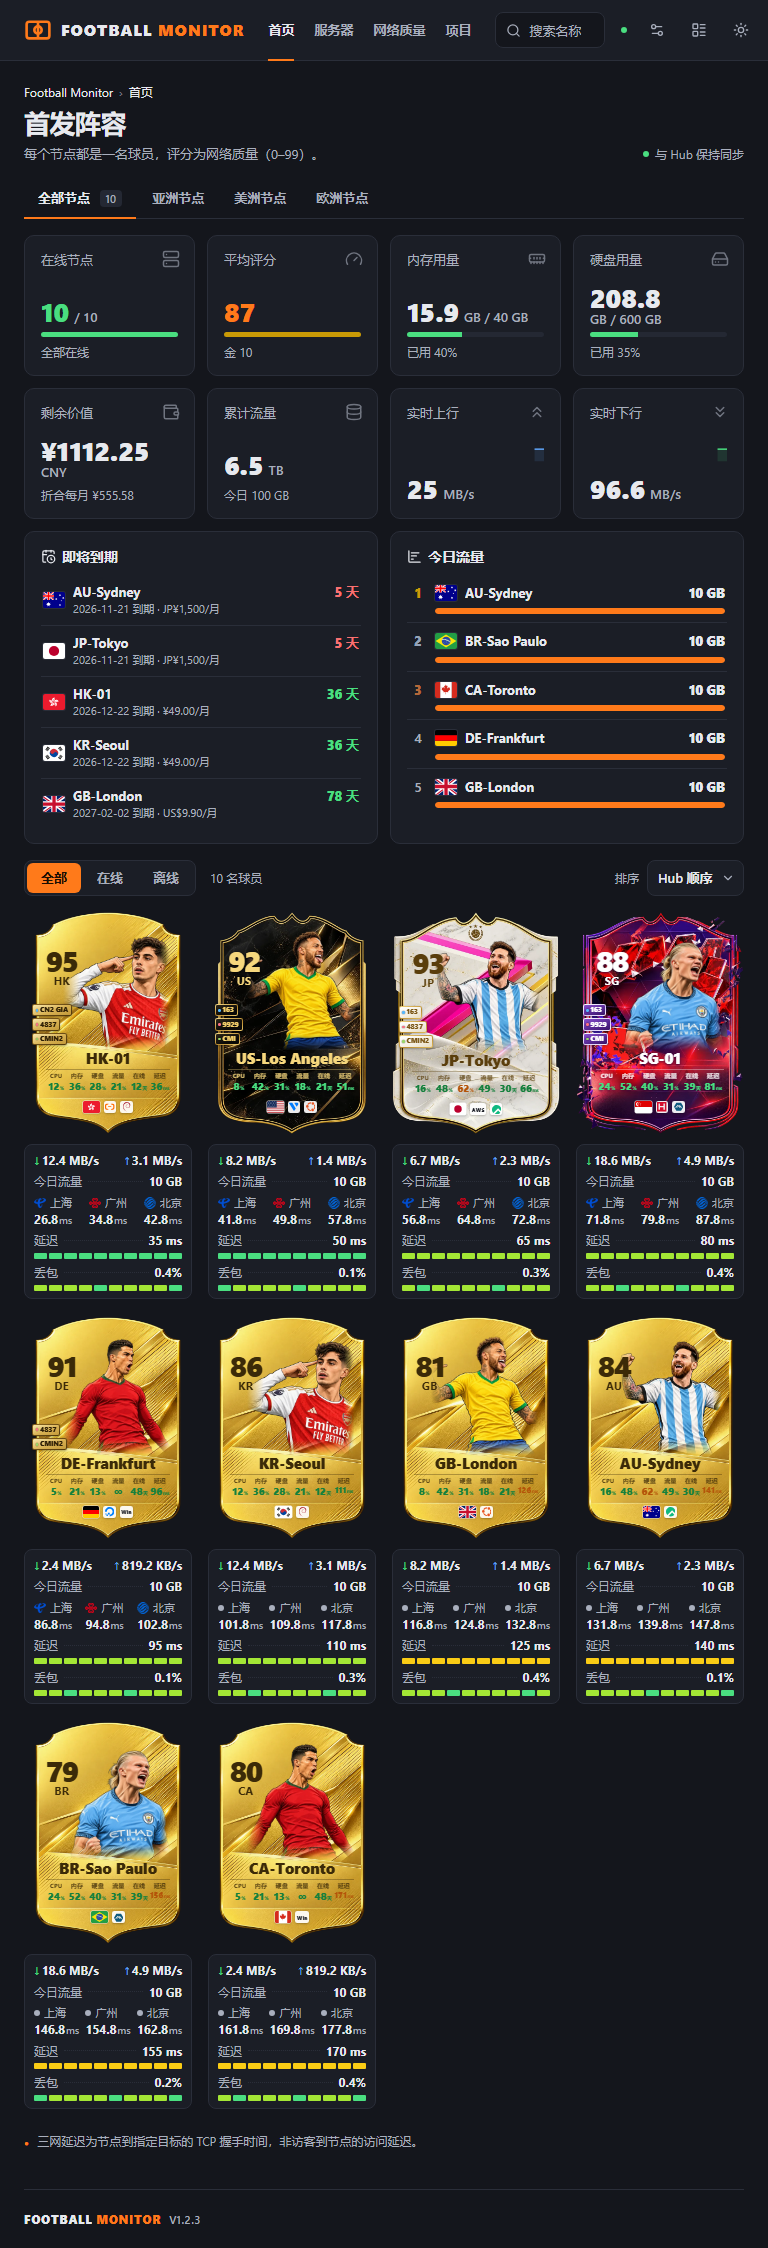
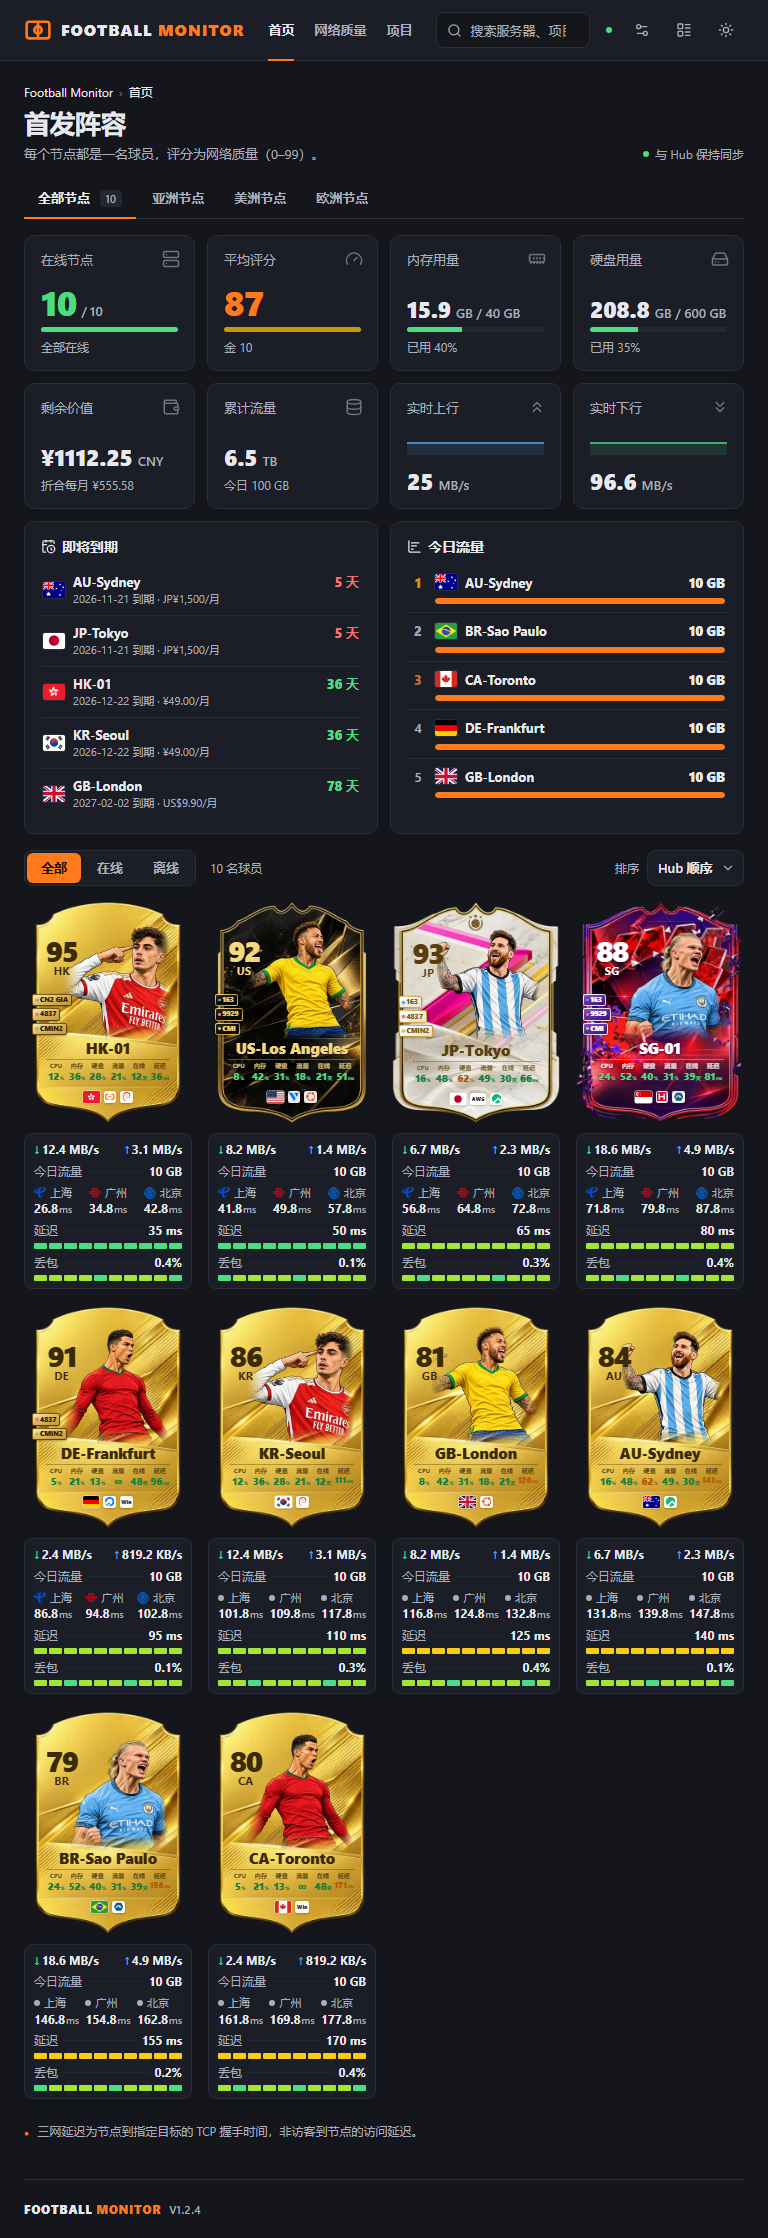
Football Monitor 1.2.4

diff --git a/CHANGELOG.md b/CHANGELOG.md
@@ -1,5 +1,21 @@
 # Changelog
 
+## 1.2.4 · 2026-11-16 · 体验打磨
+
+### Changed
+
+- 首页分组与状态、详情页时间范围与图表标签、设置页分类都记在地址栏，刷新不丢；“配置此节点”直接打开该节点的设置。
+- 设置页有未保存更改时离开会先询问，表单底部常驻保存条。
+- 手机首页汇总区折叠成一行，顶栏减为两行，第一张卡回到首屏。
+- 首页卡片不满一行时放宽并居中；汇总区突出在线与评分；顶栏“首页”与“服务器”合并。
+- 浅色外观：延迟与丢包文字改用可读的深色，面板加淡阴影。
+- 卡面增加 400px 小图，首页 CSS 由 82 kB 降到 56 kB。
+
+### Fixed
+
+- 设置页 `?node=` 在整页刷新时被默认节点覆盖。
+- 网络质量页其他时段没有按每分钟刷新；节点读取失败时空状态提示有误。
+
 ## 1.2.3 · 2026-11-16 · 历史图表
 
 ### Changed

diff --git a/docs/manual.md b/docs/manual.md
@@ -1,6 +1,6 @@
 # Football Monitor
 
-**你的服务器，你的主场。** 为极简探针 Monitor 构建的第三方足球球星卡主题。Vue 3 静态 SPA，当前版本 `1.2.3`。源码与发布：<https://github.com/NSJLUCAS/football-monitor>。
+**你的服务器，你的主场。** 为极简探针 Monitor 构建的第三方足球球星卡主题。Vue 3 静态 SPA，当前版本 `1.2.4`。源码与发布：<https://github.com/NSJLUCAS/football-monitor>。
 
 ![首页：本地模拟 API 的视觉验收](docs/screenshots/dashboard-1440.png)
 

diff --git a/README.md b/README.md
@@ -2,7 +2,7 @@
 
 为极简探针 Monitor 打造的足球球星卡主题：每台服务器都是一名球员，**你的服务器，你的主场**。
 
-由 [NSJLUCAS](https://github.com/NSJLUCAS) 维护，当前版本 `1.2.3`。
+由 [NSJLUCAS](https://github.com/NSJLUCAS) 维护，当前版本 `1.2.4`。
 
 [![preview](preview.png)](preview.png)
 
